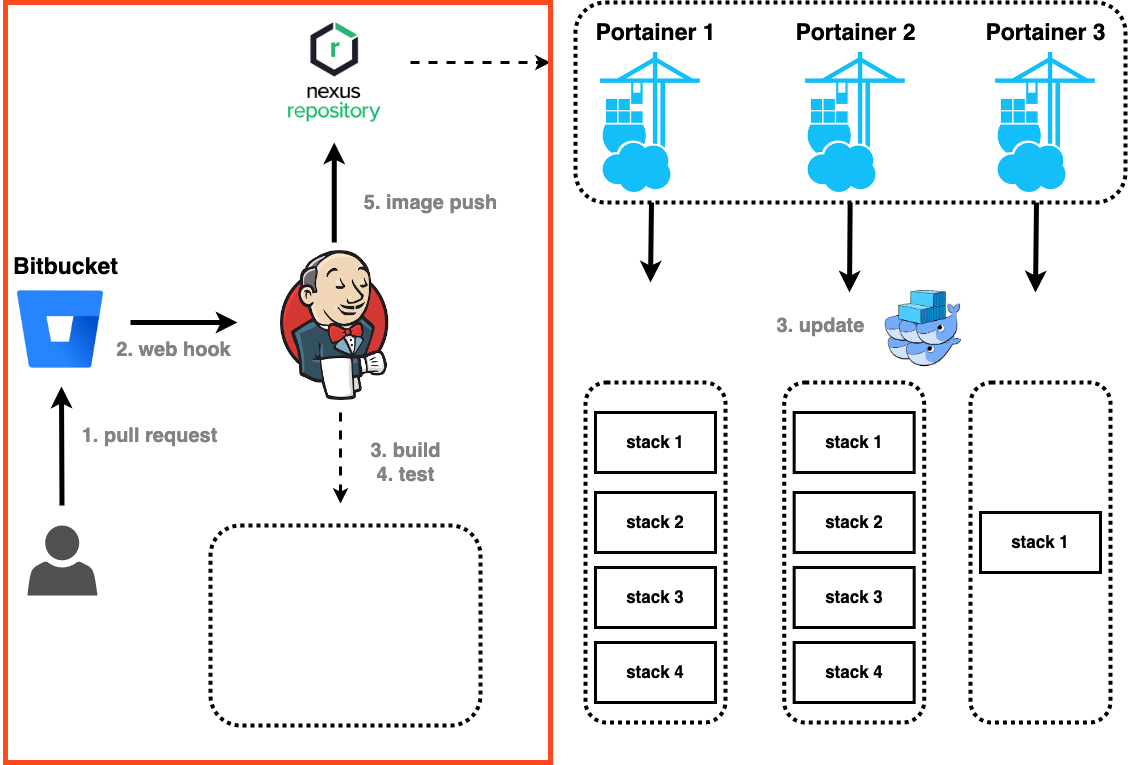
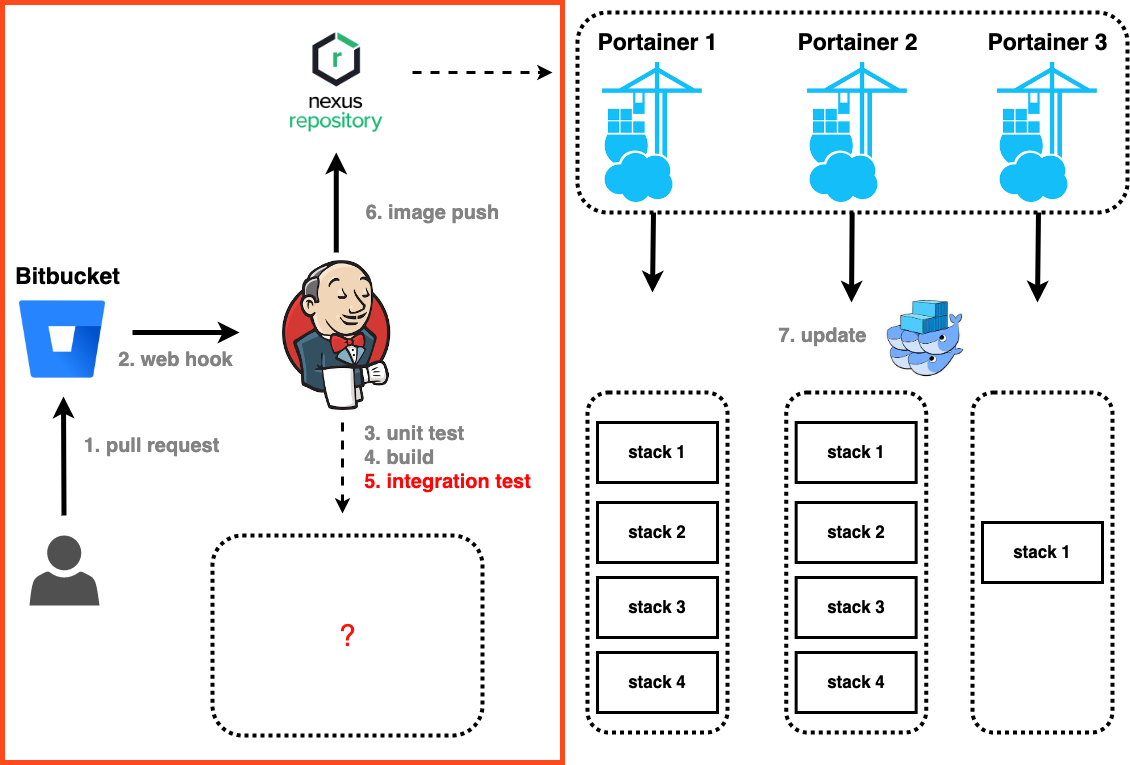
CICD 구축 게시글 수정

diff --git a/content/blog/2023y03m/cicd/index.md b/content/blog/2023y03m/cicd/index.md
@@ -11,22 +11,50 @@ tags:
 ![](ASIS.png)
 
 현재 모두 수동으로 반영하고 있다.  
-`Bitbucket`은 형상관리 역할만 하기에 커밋 내용과 `Nexus`의 도커 이미지가 동일하다는 것이 보장되지 않는다.  
-`Nexus`에 이미지를 넣기 위해 쉘 스크립트를 직접 실행시켜줘야 한다.  
-그리고 이미지에 태깅할 이름을 직접 작성하기에 잘 못 작성할 여지가 있다.  
+- **`Bitbucket`은 형상관리 역할만 하기에 커밋 내용과 `Nexus`의 도커 이미지가 동일하다는 것이 보장되지 않는다.**  
+- **`Nexus`에 이미지를 넣기 위해 쉘 스크립트를 직접 실행시켜줘야 한다.**  
+- **그리고 도커 이미지 태깅을 직접 작성하기에 잘 못 작성할 여지가 있다.** 
   
 위의 문제를 해결하기 위해 아래와 같은 CI/CD를 구축해보려 한다.  
   
 # TO-BE
 
+`Jenkins`가 Webhook을 받아 테스트를 실행하고 이미지를 빌드하여 푸시한다.  
+    
+**통합 테스트는 어디에서 실행되어야 하나?**  
+통합 테스트를 진행하는 서비스가 다른 서비스에 의존한다면?  
+검색을 위한 테스트를 검증하기 위해서는 여러 서비스가 같이 있어야 하는데 주위 서비스들을 모두 mock으로 대체할 것인가?  
+
+## 서비스 기준 통합 테스트
+
+포테이너에 이미지를 푸시하기전에, 배포하는 서비스 기준으로 통합 테스트를 하면 아래와 같을 것이다.  
+
 ![](TOBE.png)
 
-`Jenkins`가 Webhook을 받아 테스트를 실행하고 이미지를 빌드하여 푸시할 예정이다.  
-테스트는 **통합 테스트를 실행할 서버와 서비스 서버를 분리**한 상태에서 진행되어야 한다.  
-테스트 상황별(Hotfix Test, Integration Test 등)로 테스트 코드를 관리하기 위해 `Gradle Task`를 각각 선언하여 경로별로 관리하려 하였지만 서버에 테스트 코드가 같이 존재하면 커밋이 복잡해져 분리하자는 요구사항이 있었다.  
+테스트 상황별(Hotfix Test, Integration Test 등)로 테스트 코드를 관리하기 위해 `Gradle Task`를 각각 선언하여 경로별로 할 수 있지만 서버에 테스트 코드가 같이 존재하면 커밋이 복잡해져 분리하자는 요구사항이 있었다.  
+하지만 **서비스 기준으로 통합 테스트를 진행할 때 서버를 분리해서 진행하기는 힘들다.**  
+분리하기 위해서는 여러 서비스와 DB가 얽혀있는 API를 테스트하려 한다면 얽혀있는 모든 컴포넌트들을 실행시켜야 한다.  
+분리하지 않고 테스트 코드를 서비스 내에 위치시킨다면 얽혀있는 컴포넌트들을 위한 mock 테스트 개발이 필요하다.  
+> **테스트를 위한 많은 개발 비용이 필요하며 mock을 사용하는 만큼 테스트에 대한 신뢰성이 떨어진다.**  
+
+## 인프라 기준 통합 테스트
+
+모든 인프라가 구축이 완료된 테스트 서버(stack)에서 통합 테스트를 진행하면 아래와 같을 것이다.  
+
+![](TOBE2.png)
+
+**통합 테스트를 실행할 서버와 서비스 서버를 분리**한 상태에서 진행하기가 수월하다.  
+포테이너에서 배포할 서비스 이미지 업데이트가 끝난 후에, 통합 테스트를 실행한다면 가능하다.  
+이미 주변 컴포넌트들이 `stack`내에 위치해 실행되고 있기 때문이다.  
   
-현재 Webhook을 `Jenkins`가 전달받아 `Gradle Test Task`를 실행하고 빌드하는 것 까지는 완료한 상태다.  
-이제 서비스를 젠킨스 내부에서 띄우고 통합 테스트를 실행할 서버가 필요하다.  
-[`npm` start-server-and-test](https://www.npmjs.com/package/start-server-and-test)를 사용하여 테스트해보자
+해당 위치에서 통합 테스트가 실행된다면 **Postman CLI (newman)으로 json파일 기준으로 통합 테스트를 실행하는 방법**을 적용할 수 있을 것 같다.  
+> **서비스 기준 통합 테스트에 비해 개발 비용은 낮을 것으로 예상되며, mock을 사용하지 않는 만큼 테스트에 대한 신뢰는 올라가지만, 개인적인 작업 환경을 구축하기는 힘들다.**  
 
+# 브랜치
 
+![](branch.png)
+
+한 서비스에 `main`을 제외한 브랜치는 총 9개가 있고, 테스트 서버도 브랜치에 맞게 9개가 있다.  
+**각 브랜치마다 다른 테스트 서버에 다른 이미지가 배포된다.**  
+서로 다른 이미지를 배포하는 것이 **지속적인 통합/지속적인 배포**라는 의미가 맞을까?  
+아래의 내용은 [`화해 기술 블로그` 브랜치 전략 수립을 위한 전문가의 조언들](https://blog.hwahae.co.kr/all/tech/9507)을 참고하였다. 
